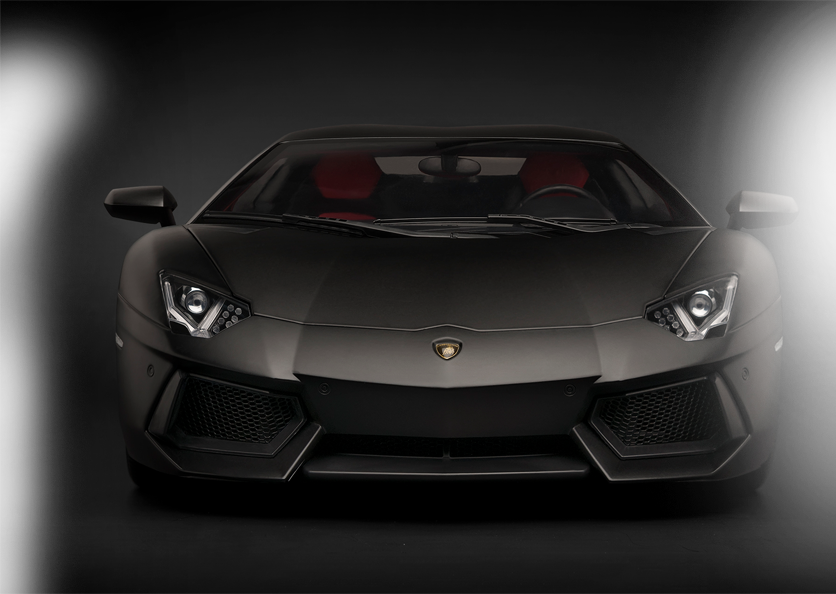
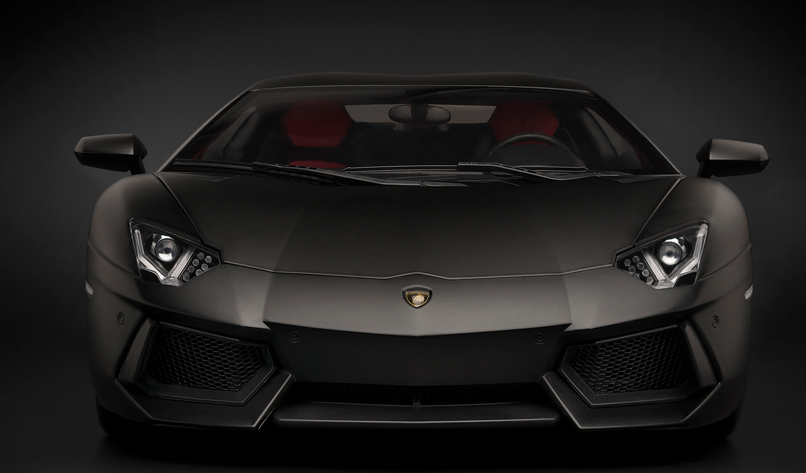
more slider

diff --git a/index.html b/index.html
@@ -91,7 +91,7 @@
 						</div>
 					</div>
 					<div class="slide-section slide-section__right">
-						<img class="" src="img/slideimg1.png">
+						<img class="" src="img/slideimg1.jpg">
 					</div>
 				</div>
 				<div class="slide">
@@ -105,11 +105,18 @@
 						</div>
 					</div>
 					<div class="slide-section slide-section__right">
-						<img class="" src="img/slideimg2.png">
+						<img class="" src="img/slideimg2.jpg">
 					</div>
 				</div>
-
+			
 			</section><!-- End section-slider -->
+			<div class="slide--over">
+				<img class="slide--over__one" src="img/stripe1.png">
+				<img class="slide--over__two" src="img/stripe2.png">
+				<img class="slide--over__three" src="img/stripe3.png">
+				<img class="slide--over__four" src="img/stripe4.png">
+				<img class="slide--over__five" src="img/stripeslines.png">
+			</div>
 			<section class="gs-container section--featured fb">
 				<div class="featured-single one-third">
 					<div class="featured-single__img">

diff --git a/css/owl.theme.css b/css/owl.theme.css
@@ -88,7 +88,9 @@
 }
 
 .slide-section__right img{
-	max-width: 100%;
+	margin-left: -30%;
+	z-index: 1;
+	position: relative;
 }
 
 .button--slider{
@@ -97,4 +99,17 @@
 
 .slider{
 	background: #141414;
+}
+
+.slide--over {
+position: relative;
+margin-top: -37.7%;
+float: right;
+}
+
+.slide--over img {
+position: relative;
+display: inline;
+margin-left: -15em;
+opacity: .5;
 }
